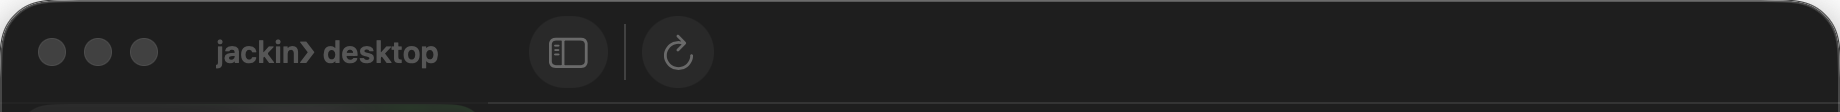
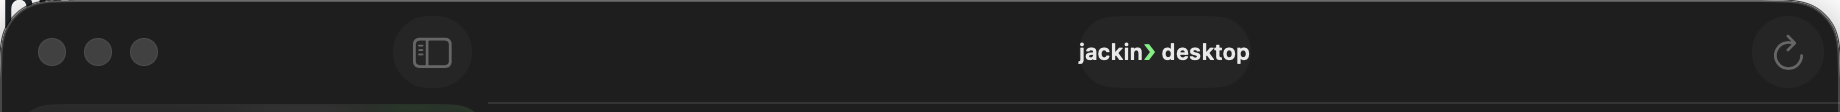
fix(desktop): center Usage toolbar brand
Use a principal toolbar item so native title placement matches the HTML oracle. Keep the NSWindow title only for system metadata.

diff --git a/native/Sources/JackinDesktop/UsageWindow/UsageWindowRoot.swift b/native/Sources/JackinDesktop/UsageWindow/UsageWindowRoot.swift
@@ -133,9 +133,20 @@ public struct UsageWindowRoot: View {
             .modifier(GlassFallbacks.ContentBackgroundExtension())
         }
         .navigationSplitViewStyle(.balanced)
-        .navigationTitle("jackin❯ desktop")
         // NSToolbar items (window.toolbarStyle = .unified is set on NSWindow host).
         .toolbar {
+            ToolbarItem(placement: .principal) {
+                HStack(spacing: 0) {
+                    Text("jackin")
+                    Text("❯")
+                        .foregroundStyle(Color.jackinPhosphor)
+                    Text(" desktop")
+                }
+                .font(.subheadline.weight(.semibold))
+                .accessibilityElement(children: .combine)
+                .accessibilityLabel("jackin❯ desktop")
+            }
+
             // LG-A8: system toolbar group — icon-only Refresh (standard macOS pattern).
             ToolbarItem(placement: .primaryAction) {
                 Button {

diff --git a/native/Tools/DesktopArchitectureLint/main.swift b/native/Tools/DesktopArchitectureLint/main.swift
@@ -92,6 +92,16 @@ struct DesktopArchitectureLint {
             print("FAIL  UsageWindowController must not assign contentView = NSHostingView (toolbar dies)")
             ok = false
         }
+        if !text.contains("titleVisibility = .hidden") {
+            print("FAIL  UsageWindowController must hide duplicate leading NSWindow title")
+            ok = false
+        }
+        let rootPath = desktopRoot.appendingPathComponent("UsageWindow/UsageWindowRoot.swift")
+        let rootText = try? String(contentsOf: rootPath, encoding: .utf8)
+        if rootText?.contains("ToolbarItem(placement: .principal)") != true {
+            print("FAIL  Usage toolbar must center brand in a principal item")
+            ok = false
+        }
         if ok {
             print("PASS  UsageWindowController NSToolbar hosting")
         } else {

diff --git a/native/Sources/JackinDesktop/UsageWindowController.swift b/native/Sources/JackinDesktop/UsageWindowController.swift
@@ -52,7 +52,9 @@ public final class UsageWindowController: NSObject, NSWindowDelegate {
         // Unified titlebar + toolbar (system NSToolbar — not a custom chrome strip).
         window.toolbarStyle = .unified
         window.titlebarAppearsTransparent = false
-        window.titleVisibility = .visible
+        // Custom SwiftUI `.principal` item owns the centered branded title.
+        // Keep NSWindow title for Window menu/accessibility without duplicating it at leading.
+        window.titleVisibility = .hidden
         window.titlebarSeparatorStyle = .automatic
 
         // Hosting *controller* is required for SwiftUI toolbar → NSToolbar.

diff --git a/advisor-plans/qi-artifacts/deltas/2026-08-10-usage-toolbar.md b/advisor-plans/qi-artifacts/deltas/2026-08-10-usage-toolbar.md
@@ -10,12 +10,14 @@
 |-------|---------------|-----|
 | Fail | Dark solid white SF Symbol disks | view-bitmap crop |
 | Pass | screencapture composite | readable Refresh + sidebar toggle Dark+Light |
+| Fail | Brand title was leading despite centered HTML oracle | hidden duplicate NSWindow title + SwiftUI `.principal` brand item |
+| Pass | Brand centered with phosphor chevron | recaptured full window + toolbar Dark+Light |
 
 ## Dual-image
 
 | Check | HTML | Native | Match |
 |-------|------|--------|-------|
-| Brand | jackin❯ desktop | leading title | Yes |
+| Brand | centered jackin❯ desktop | centered; phosphor chevron | Yes |
 | Refresh | clockwise glyph | arrow.clockwise readable D+L | Yes |
 | Sidebar toggle | system | present | Yes |
 | Unified chrome | titlebar | NSToolbar crop | Yes |
@@ -25,7 +27,6 @@
 
 | Severity | Element | Notes |
 |----------|---------|-------|
-| Low | Title placement | Native leading vs HTML center |
 | Low | Traffic lights | System chrome N/A |
 
 ## Verdict

diff --git a/advisor-plans/VISUAL_QA_LOG.md b/advisor-plans/VISUAL_QA_LOG.md
@@ -39,6 +39,10 @@ Re-audit closed false-pass primary-control deltas: Usage “Open usage page” n
 uses oracle’s quiet tint + 0.5 pt hairline instead of solid phosphor; popover
 footer CTA now matches centered phosphor glyph/label composition.
 
+Re-audit also promoted Usage toolbar title placement from false-pass “leading”
+to oracle parity: centered `jackin❯ desktop`, phosphor chevron, native principal
+toolbar item. Dark/light full-window and toolbar captures refreshed.
+
 ## Live
 popover-live / ctx-menu **BLOCKED** — SoTParity proves focus/menu.
 

diff --git a/advisor-plans/qi-artifacts/native/MANIFEST.md b/advisor-plans/qi-artifacts/native/MANIFEST.md
@@ -1,5 +1,5 @@
 # DesktopVisualSnapshotHarness manifest
-out: ../advisor-plans/qi-artifacts/native
+out: ../advisor-plans/qi-artifacts/current
 popover: PopoverRoot (TabGrid + ProviderTab + Footer) via PresentationStore.applyQIFixture
 status: StatusItemRendering.icon + StatusItemRendering.title (AppKit bitmap)
 status_live_nsstatusitem: prefer live screencapture when JackinDesktop is running (see VISUAL_QA_LOG)
